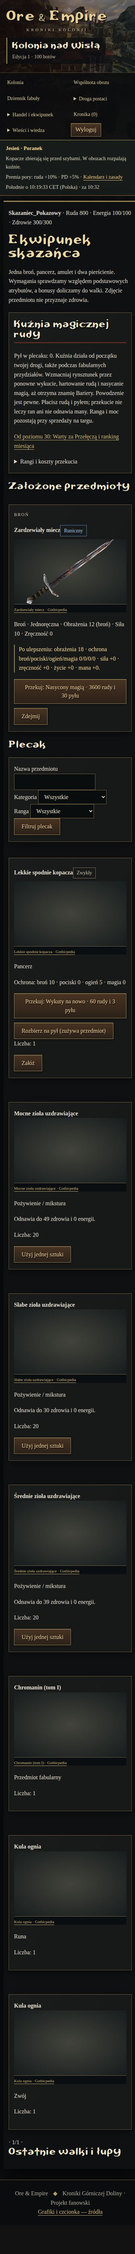
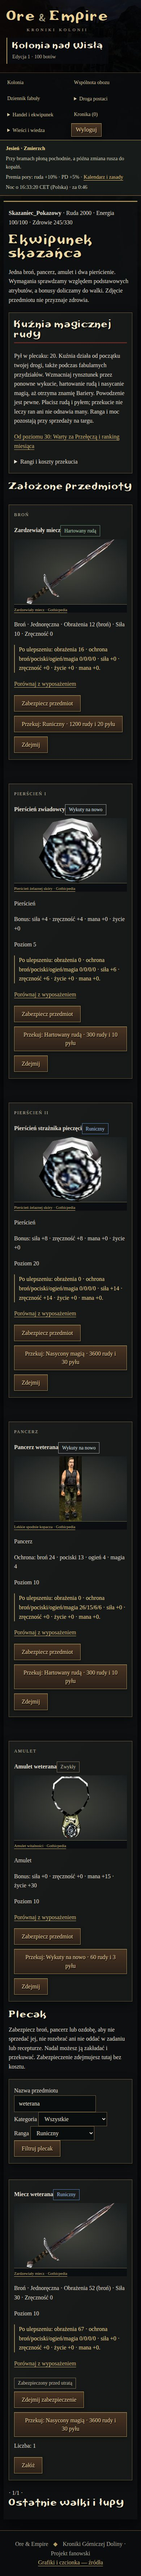
Udokumentuj testy pętli gry i odśwież widoki sprzętu oraz targu

diff --git a/docs/SCREENSHOTS.md b/docs/SCREENSHOTS.md
@@ -1,8 +1,18 @@
 # Aktualne zrzuty ekranów
 
-Wykonane ponownie **7 listopada 2026** dla rang rynsztunku i katalogu G1 v3 (migracja 0032, motyw `rynsztunek-mmorpg-1`). Osobny świat „Kolonia nad Wisłą” ma 100 botów i zwykłe konto `Skazaniec_Pokazowy`. Syntetyczna postać poziomu 30 nie ukończyła fabuły. Przekucie do rangi Runiczny wykonano zwykłym formularzem, podobnie jak sprawdzenie filtra rangi.
+Zestaw **28 ujęć** z syntetycznego świata „Kolonia nad Wisłą”, z postacią
+`Skazaniec_Pokazowy` i 100 botami. Nie zawiera danych prywatnego administratora.
 
-Odświeżono 23 ujęcia i dodano katalog oraz szczegół kuźni — razem **25**. Ekwipunek i mobilny ekwipunek mają pełny zrzut strony; pozostałe ujęcia pokazują widoczne okno. Telefon: 390×844, dodatkowa kontrola przepełnienia przy 320 px. Zrzuty nie zawierają danych administratora ani formularzy haseł. Hashe plików są w `screenshots/manifest.json`.
+**7 listopada 2026, migracja 0036:** odświeżono ekwipunek, targ i mobilny
+ekwipunek; dodano porównywarkę, mobilną porównywarkę i mobilny targ. Motyw
+`rynsztunek-i-targ-2`. Pełne ujęcia ekwipunku i porównywarki pokazują zaznaczone
+filtry, ochronę i parametry sprzętu; targ pokazuje widoczne okno (mobilny po
+przewinięciu do filtrów). Starsze ujęcia pozostałych ekranów pochodzą z tego
+samego dnia, z migracji 0032 i wcześniejszego motywu.
+
+Kontrola GUI: 1440×1000, 390×844 i 320×844. Formularze ochrony, wyboru slotu,
+paginacji i wycofania własnej oferty sprawdzono w przeglądarce. [Raport](reports/rynsztunek-targ-gui-2026-11-07.json).
+Hashe i czas wykonania każdego pliku są w `screenshots/manifest.json`.
 
 ## Kolonia i eksploracja
 
@@ -16,6 +26,7 @@ Odświeżono 23 ujęcia i dodano katalog oraz szczegół kuźni — razem **25**
 ![Ekwipunek](screenshots/inventory.jpg)
 ![Runiczny przedmiot w kuźni](screenshots/forge.jpg)
 ![Katalog 140 broni G1](screenshots/catalog.jpg)
+![Porównanie rynsztunku](screenshots/comparison.jpg)
 ![Targ mieszkańców](screenshots/market.jpg)
 ![Kupiec NPC](screenshots/merchant.jpg)
 ![Trening](screenshots/training.jpg)
@@ -43,5 +54,7 @@ Odświeżono 23 ujęcia i dodano katalog oraz szczegół kuźni — razem **25**
 
 ![Mobilna kolonia](screenshots/mobile.jpg)
 ![Mobilny ekwipunek](screenshots/mobile-equipment.jpg)
+![Mobilny targ](screenshots/mobile-market.jpg)
+![Mobilne porównanie](screenshots/mobile-comparison.jpg)
 
 Źródła użytych ilustracji: [ASSETS.md](ASSETS.md), pełny lokalny [manifest](../characters/static/characters/gothicpedia.json). Nazwy, licencjonowanie treści wiki i prawa do obrazów gry nie są tym samym; zachowujemy przypisania źródeł.
